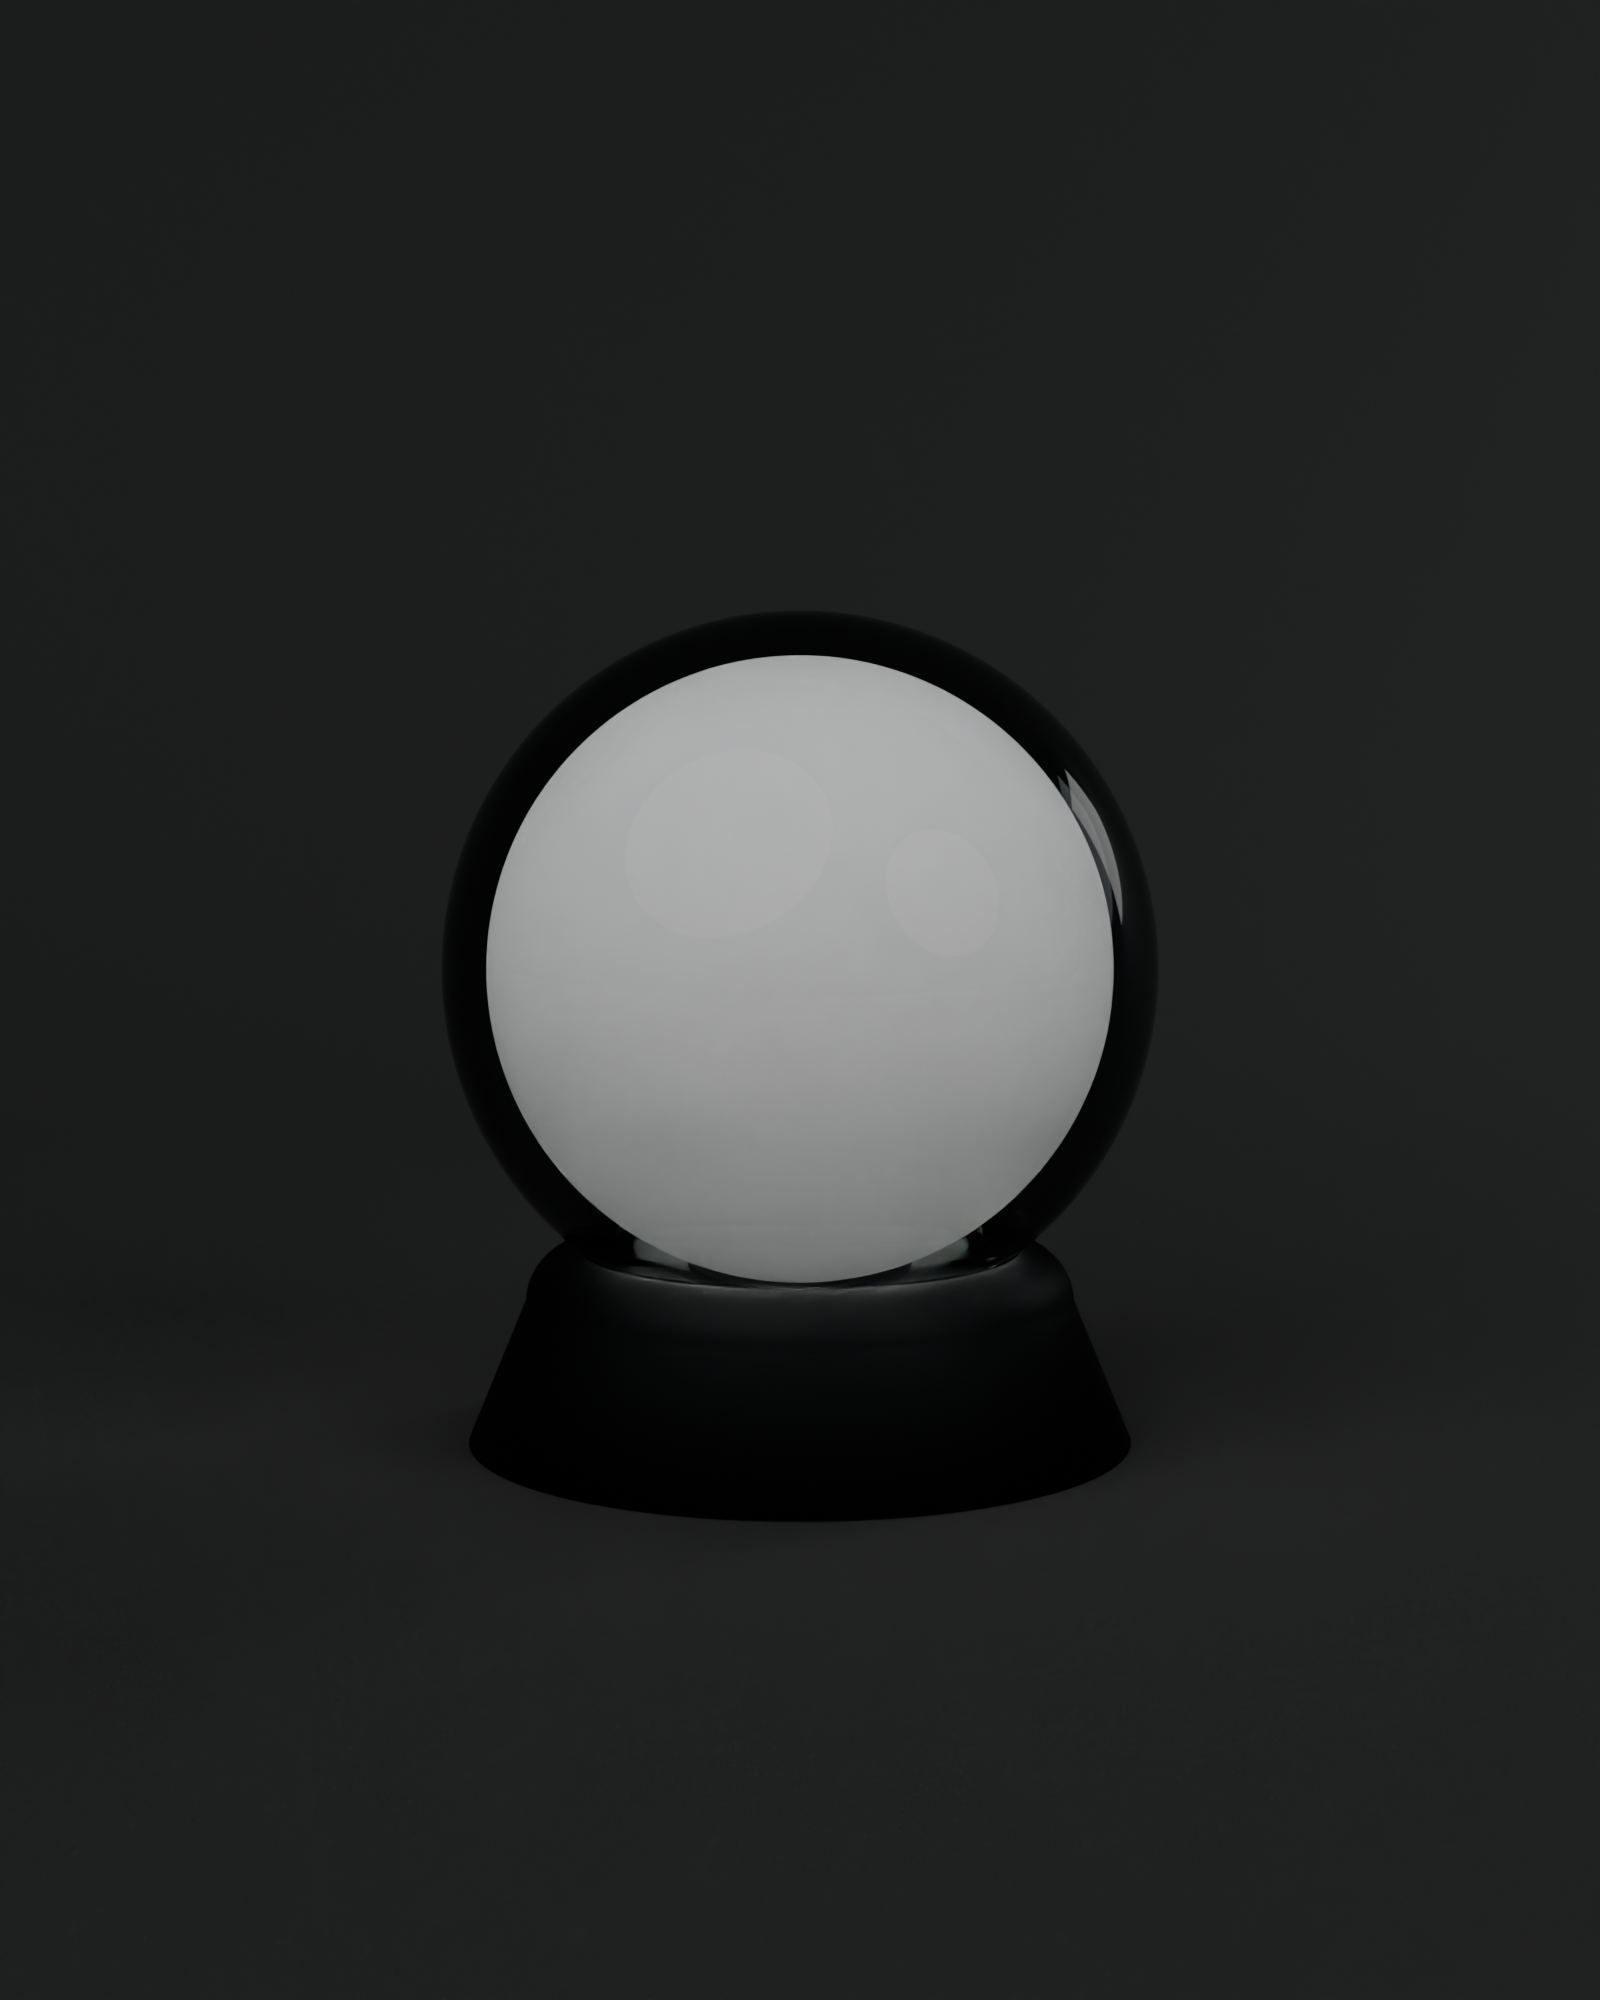
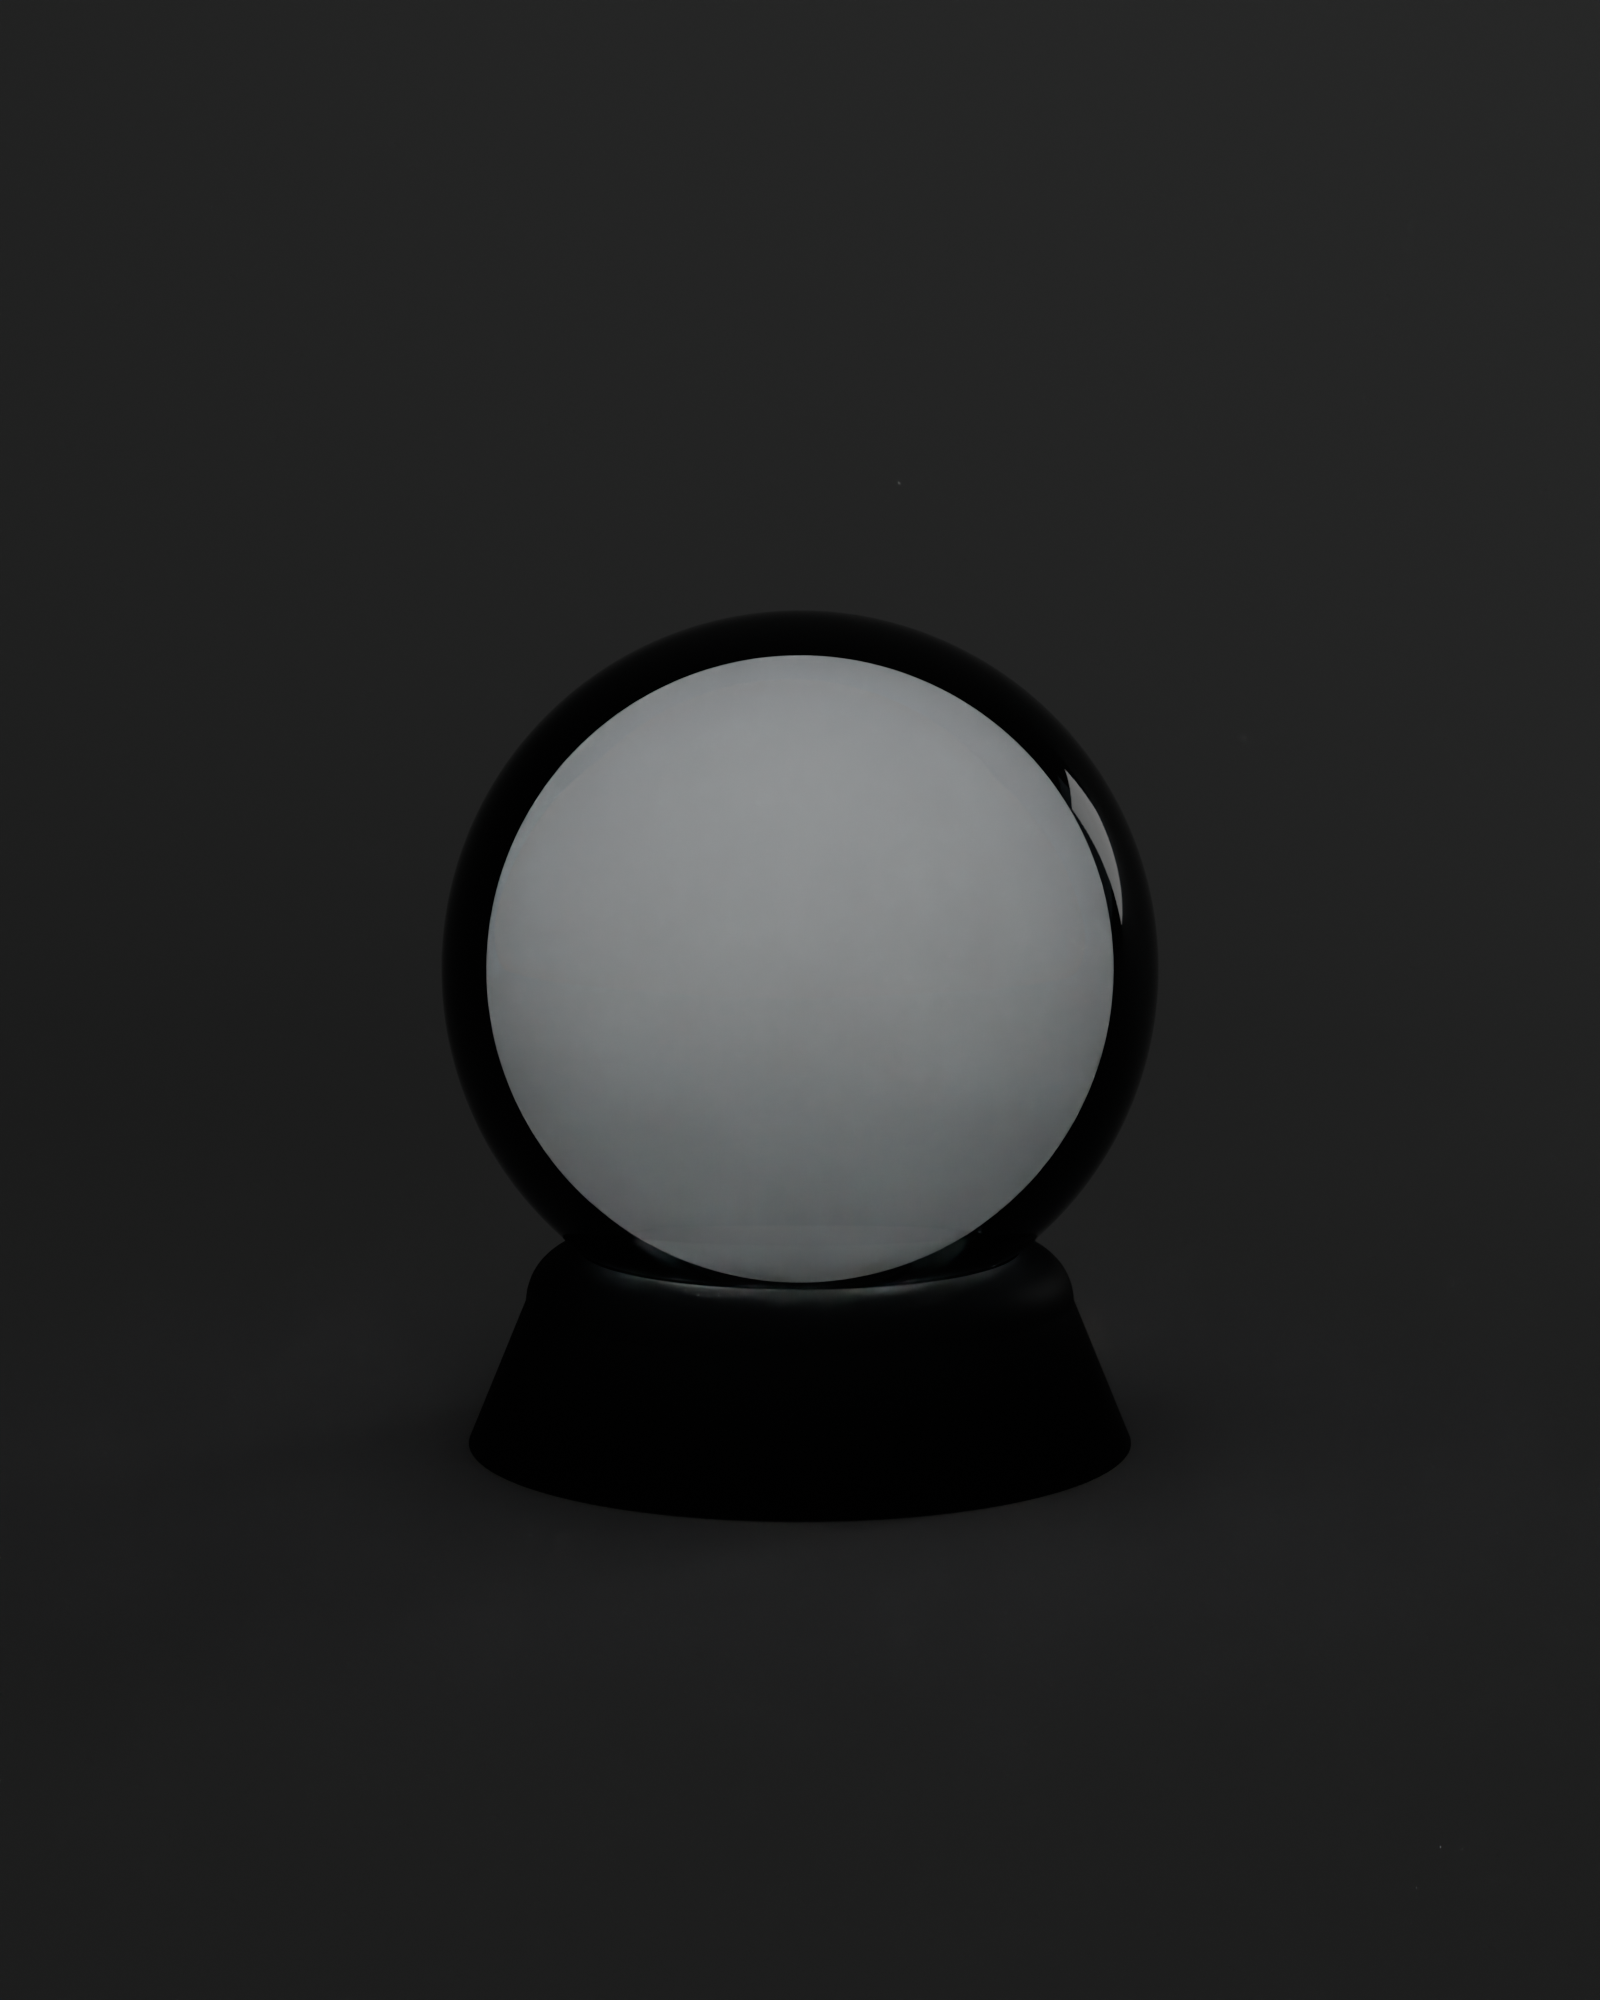
barkhorn site: Smoke's lamps with the darker glass (the three pictures and their figures: 260 lm, 35 lm)
Claude-Session: https://claude.ai/code/session_01BAaPTnZ3md8RoquoqYWJkd

Changed region(s): [[0.2812, 0.31, 0.7188, 0.651]]

diff --git a/spinoffs/barkhorn/site_v2.py b/spinoffs/barkhorn/site_v2.py
@@ -2077,8 +2077,8 @@ MANTLE_COVER_LINE = ('Lift-off dust cover in the deck&rsquo;s own tint: 3 mm cas
 MANTLE_BAR = 'renders/2026-11-11/barkhorn/product/planet-bar/mantle-bar.png'   # Mantle in Ember at the bar (r33-speaker-horn 8ebd1690)
 LAMP_FINAL = 'renders/2026-11-10/barkhorn/lamp-site/final/{f}.png'
 NAMES = dict(zip(RC_KEYS, ['ember', 'dust', 'acid', 'poison', 'ice', 'haze', 'fog', 'smoke']))
-CORE_LM = {'red': 45, 'orange': 51, 'amber': 63, 'green': 30, 'blue': 39, 'violet': 33, 'ice': 95, 'black': 53}      # lm out of the ball (photometry.txt 3205c545)
-HEMI_LM = {'red': 334, 'orange': 353, 'amber': 419, 'green': 282, 'blue': 308, 'violet': 281, 'ice': 521, 'black': 378}   # lm out, the corrected method (r32-lamps-final 3205c545, photometry.txt)
+CORE_LM = {'red': 45, 'orange': 51, 'amber': 63, 'green': 30, 'blue': 39, 'violet': 33, 'ice': 95, 'black': 35}      # lm out of the ball (photometry.txt 3205c545)
+HEMI_LM = {'red': 334, 'orange': 353, 'amber': 419, 'green': 282, 'blue': 308, 'violet': 281, 'ice': 521, 'black': 260}   # lm out, the corrected method (r32-lamps-final 3205c545, photometry.txt)
 # the bar (r33-speaker-horn ac342ff0, approved as a direction 2026-11-12; with the new record wall 9e8ddccf): five Hemispheres over the counter, two Cores on it;
 # on /lighting as the room, and an "At the bar" view for the tints in it. More frames join ROOM as they pass.
 ROOM = [('renders/2026-11-11/barkhorn/product/planet-bar/bar-pendants.png', 'bar-pendants',
